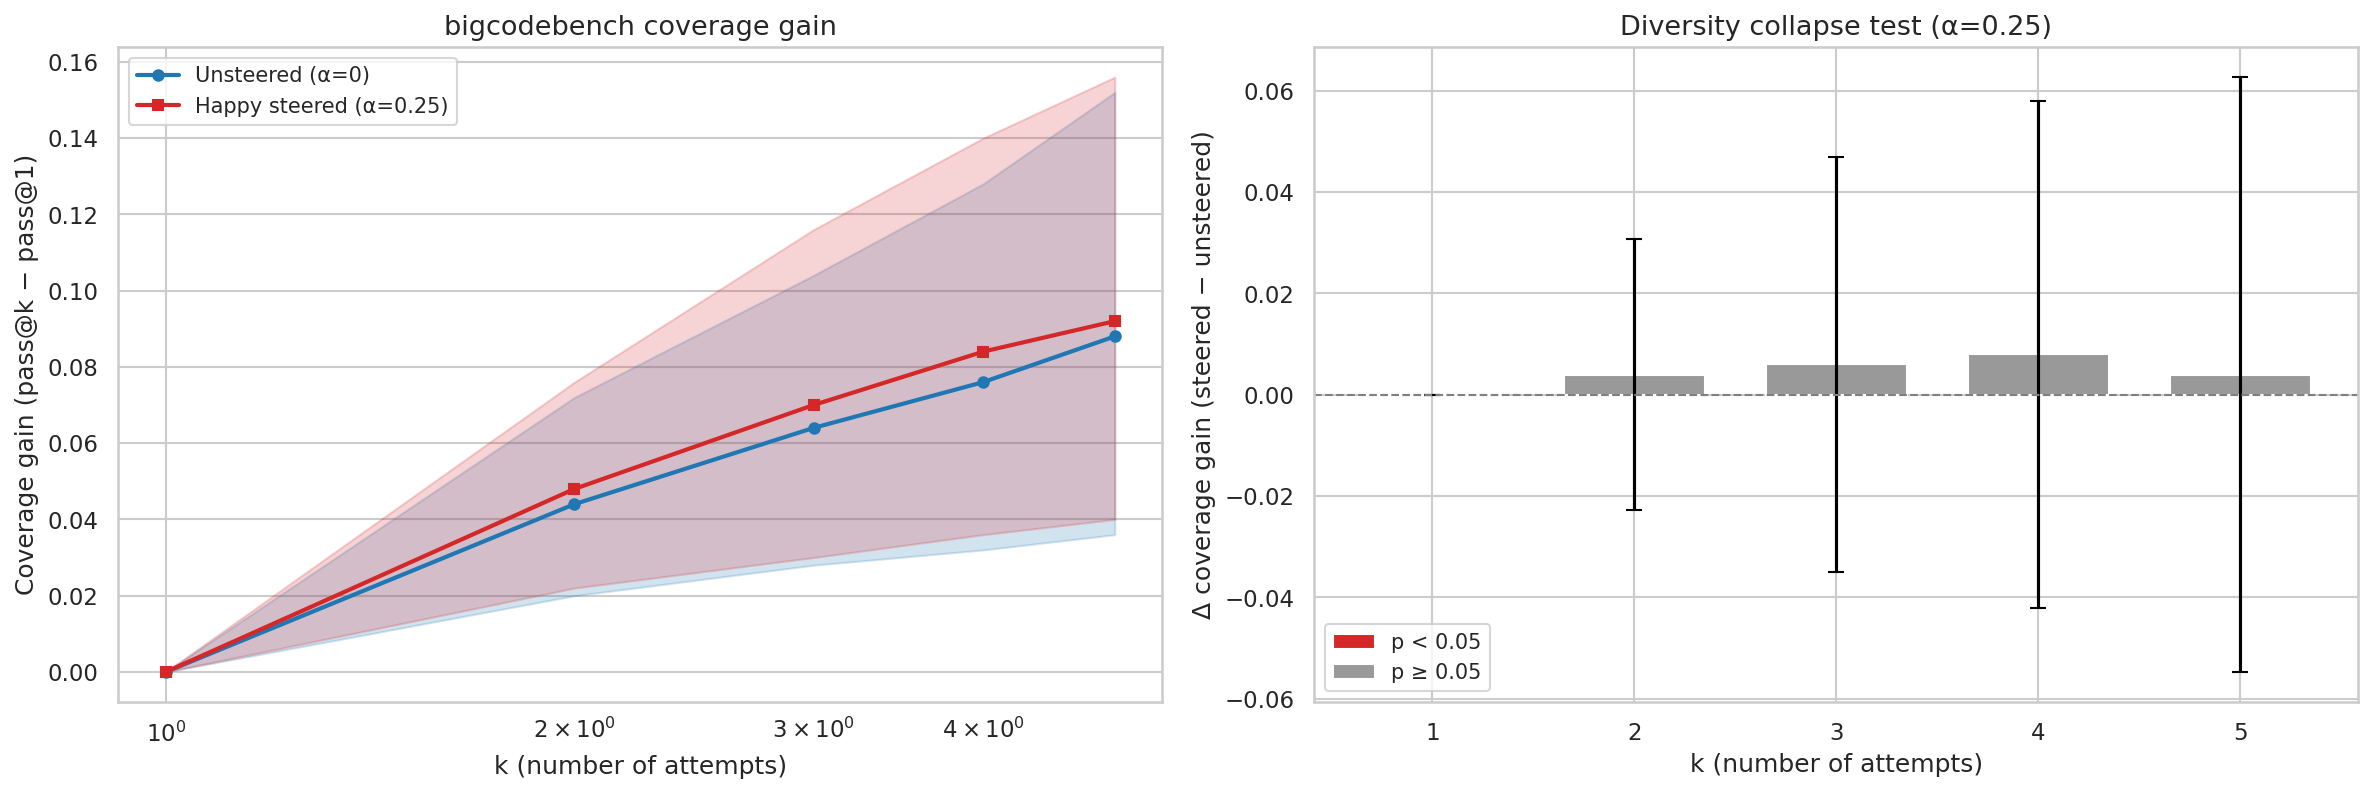
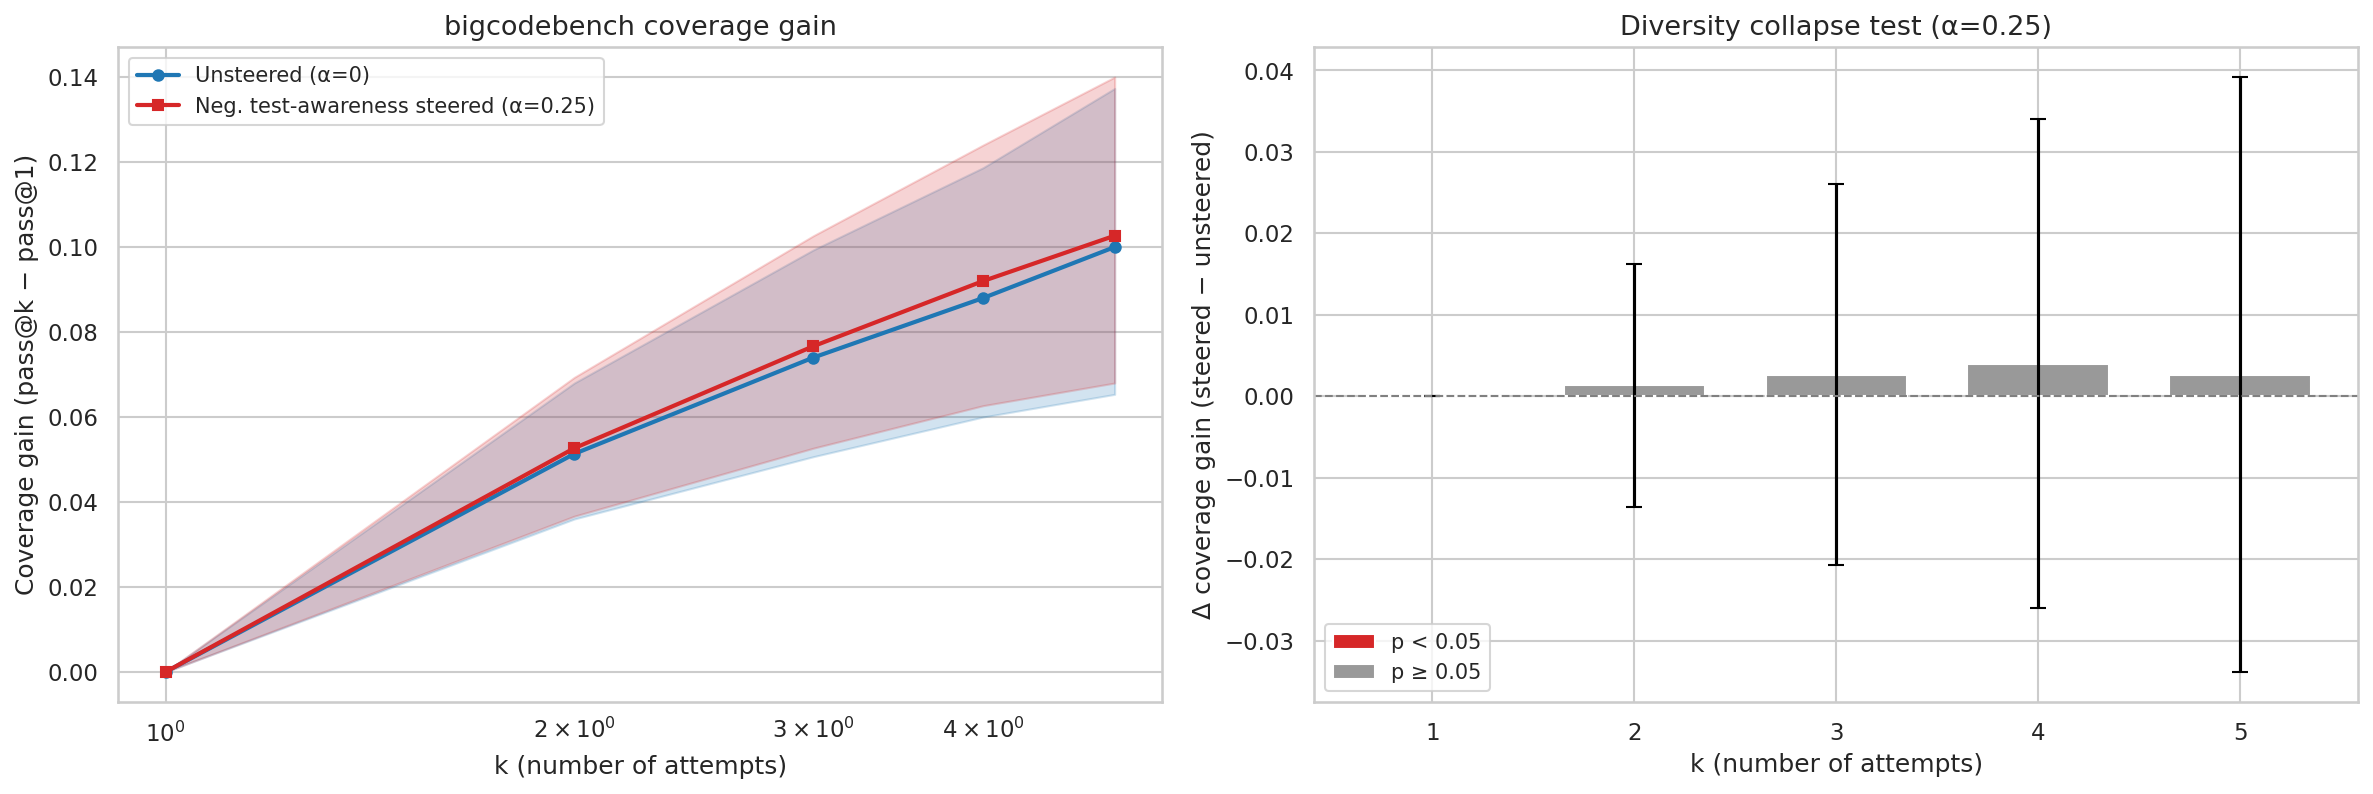
docs: Update QwQ results to 150 problems, frame as inconclusive
- Scale up from 50 to 150 BigCodeBench problems (16h compute)
- pass@1: 0.413→0.391 (-2.2%), constant across k values
- Coverage gain test: all p>0.79, omnibus p=0.838
- Frame as inconclusive: n=5 gives too narrow a coverage gain window
  (~15 problems) to detect or rule out diversity effects
- Fix Hawthorne paper citation: Vellat → Abdelnabi et al. (2025)
- Update figure with 150-problem data and corrected labels

diff --git a/docs/steering_diversity_paper.md b/docs/steering_diversity_paper.md
@@ -113,7 +113,7 @@ https://arxiv.org/abs/2505.18373 -->
 
 - Perez et al. (2026). [Large Language Models Often Know When They Are Being Evaluated](https://github.com/jjpn97/eval_awareness). The eval awareness pipeline we use for our baseline survey.
 - Hua et al. (2025). [Steering Evaluation-Aware Models to Act Like They Are Deployed](https://arxiv.org/abs/2510.20487). Demonstrates steering eval-aware models toward deployment behavior. Key motivation for our diversity question.
-- Vellat et al. (2025). [The Hawthorne Effect in Reasoning Models: Evaluating and Steering Test Awareness](https://arxiv.org/abs/2505.14617). Microsoft's test-awareness probing framework; we use their pre-trained Qwen3-32B probes.
+- Abdelnabi et al. (2025). [The Hawthorne Effect in Reasoning Models: Evaluating and Steering Test Awareness](https://arxiv.org/abs/2505.14617). Microsoft's test-awareness probing framework; we use their pre-trained Qwen3-32B probes.
 
 ### Model Organisms and Safety Evaluation
 
@@ -275,7 +275,7 @@ We ran 13 models through this pipeline with `--limit 244 --epochs 1` (~49 unique
 
 ### 3.6 Test Awareness Steering
 
-We use Microsoft's [Test_Awareness_Steering](https://github.com/microsoft/Test_Awareness_Steering) framework (Vellat et al., 2025). Their approach:
+We use Microsoft's [Test_Awareness_Steering](https://github.com/microsoft/Test_Awareness_Steering) framework (Abdelnabi et al., 2025). Their approach:
 
 1. Load probe weights from a pre-trained binary classifier (layer 63 of Qwen3-32B, 94.5% accuracy)
 2. Extract the positive-class (test-aware) direction vector (dim 5120)
@@ -598,7 +598,7 @@ Models tested: `moonshotai/kimi-k2.5`, `anthropic/claude-opus-4.6`, `deepseek/de
 
 #### 4.5.1 Preliminary Eval Awareness Steering Results (Qwen3-32B)
 
-We applied Microsoft's test-awareness probes (Vellat et al., 2025) to Qwen3-32B using their `modify_model.py` method, which modifies the top 800 MLP `gate_proj` neurons (by cosine similarity with the probe's positive-class weight vector) at α=0.3 to steer the model away from test awareness. Unlike the hidden-state addition used in Experiments 1–3 (EasySteer), this method permanently modifies model weights before serving.
+We applied Microsoft's test-awareness probes (Abdelnabi et al., 2025) to Qwen3-32B using their `modify_model.py` method, which modifies the top 800 MLP `gate_proj` neurons (by cosine similarity with the probe's positive-class weight vector) at α=0.3 to steer the model away from test awareness. Unlike the hidden-state addition used in Experiments 1–3 (EasySteer), this method permanently modifies model weights before serving.
 
 **Setup.** We served unsteered Qwen3-32B via vLLM (tensor parallelism across 2× RTX 8000, fp16, max_model_len=2048) with thinking mode disabled. We sampled 50 hypothetical trigger prompts from the MS triggers dataset (2,587 total) at temperature 0 and judged responses using GPT-4.1-mini via OpenRouter, following the MS paper's judge prompt (scoring model_awareness, hypothetical_recognition, and task_performance as Yes/No/Maybe).
 
@@ -740,47 +740,45 @@ The simulated CIs separate at n=20, suggesting n=50 would be more than adequate.
 
 **Caveats.** This power analysis assumes the per-problem pass rates observed at n=10 are accurate estimates of the true rates. With only 10 samples per problem, individual problem rates have substantial noise (a problem with true rate 0.3 could easily be observed as 0.1 or 0.5). The *average* effect size across 164 problems is more stable, but the distribution of per-problem effects — which determines CI widths — could differ from what we observed. The n=50 run will serve as both a higher-power replication and a check on these simulation assumptions.
 
-#### 4.6.3 Test Awareness Steering on QwQ-32B (BigCodeBench, n=5)
+#### 4.6.3 Test Awareness Steering on QwQ-32B (BigCodeBench, n=5, 150 problems)
 
-Following the inconclusive Qwen3-32B results (Section 4.5.1), we switched to QwQ-32B for two reasons: (1) the Hawthorne Effect paper (Vellat et al., 2025) demonstrated that QwQ does not lose performance under steering (MMLU results), and (2) QwQ is a reasoning model where thinking mode is integral, avoiding the confound of disabling it.
+Following the inconclusive Qwen3-32B results (Section 4.5.1), we switched to QwQ-32B. The Hawthorne Effect paper (Abdelnabi et al., 2025) demonstrated that QwQ does not lose performance under their test-awareness steering (MMLU results), making it a natural candidate for our diversity measurement.
 
 **Setup.** We applied Microsoft's test-awareness probes (layer 62, 95.4% accuracy) to QwQ-32B at α=−0.25 (steering away from test awareness) using `modify_model.py`. We saved steered weights to disk and served both unsteered and steered models via vLLM (TP=2, RTX 8000×2, fp16). Steering was verified via logprob comparison at temperature 0: 7/20 tokens showed |Δlogprob| > 0.01, with max difference 0.22, confirming the weight modification took effect.
 
 QwQ-32B generates inline thinking (no `<think>` tags in its chat template, unlike Qwen3). We kept thinking enabled — it cannot be disabled via the standard `enable_thinking` flag, which is a Qwen3 feature. BigCodeBench's `sanitize()` function correctly strips thinking content before code extraction, so thinking tokens do not contaminate evaluation.
 
-We evaluated on 50 BigCodeBench-Instruct (full subset) problems with n=5 samples per problem at temperature 0.8 and max_tokens=4096. The token budget accommodates QwQ's thinking overhead: at 1280 tokens, the model exhausts its budget on thinking without producing code; at 4096 tokens, 91% of samples contain a function definition.
+We evaluated on 150 BigCodeBench-Instruct (full subset) problems (IDs 0–149) with n=5 samples per problem at temperature 0.8 and max_tokens=4096. The token budget accommodates QwQ's thinking overhead: at 1280 tokens, the model exhausts its budget on thinking without producing code; at 4096 tokens, 91% of samples contain a function definition. Total compute: ~16 hours across both conditions (two RTX 8000 GPUs, tensor-parallel).
 
 **Results.**
 
 | Metric | Unsteered (α=0) | Steered (α=−0.25) | Difference |
 | --- | :---: | :---: | :---: |
-| pass@1 | 0.472 | 0.448 | −0.024 |
-| pass@2 | 0.516 | 0.496 | −0.020 |
-| pass@3 | 0.536 | 0.518 | −0.018 |
-| pass@4 | 0.548 | 0.532 | −0.016 |
-| pass@5 | 0.560 | 0.540 | −0.020 |
+| pass@1 | 0.413 | 0.391 | −0.022 |
+| pass@2 | 0.465 | 0.443 | −0.022 |
+| pass@3 | 0.487 | 0.467 | −0.020 |
+| pass@4 | 0.501 | 0.483 | −0.018 |
+| pass@5 | 0.513 | 0.493 | −0.020 |
 
-Tasks with at least one passing solution: 28/50 (unsteered) vs. 27/50 (steered).
-
-**Coverage gain test.** To isolate diversity collapse from the pass@1 drop, we applied the same coverage gain analysis as Section 4.6.1.
+**Coverage gain test.** To separate diversity effects from the pass@1 drop, we applied the same coverage gain analysis as Section 4.6.1.
 
 | k | Δ coverage gain | SE | p-value | sig |
 | --- | :---: | :---: | :---: | :---: |
-| 2 | +0.004 | 0.014 | 0.771 | |
-| 3 | +0.006 | 0.021 | 0.775 | |
-| 4 | +0.008 | 0.026 | 0.755 | |
-| 5 | +0.004 | 0.030 | 0.894 | |
+| 2 | +0.0013 | 0.0076 | 0.861 | |
+| 3 | +0.0027 | 0.0119 | 0.823 | |
+| 4 | +0.0040 | 0.0153 | 0.794 | |
+| 5 | +0.0027 | 0.0186 | 0.886 | |
 
-Omnibus interaction test: mean Δ coverage gain = +0.006, t = 0.25, p = 0.804.
+Omnibus interaction test: mean Δ coverage gain = +0.003, t = 0.21, p = 0.838.
 
-![Coverage gain (pass@k − pass@1) for unsteered vs. test-awareness-steered (α=−0.25) QwQ-32B on BigCodeBench (n=5, 50 problems). Left: coverage gain curves with bootstrap 95% CIs. Right: Δ coverage gain (steered − unsteered). No significant diversity collapse detected at any k value.](figures/coverage_gain_qwq_bigcodebench.png)
-_Figure: Coverage gain analysis for test-awareness steering (α=−0.25) on QwQ-32B, BigCodeBench (n=5, 50 problems). Coverage gain curves overlap almost entirely, and no Δ is significant. The small, consistent pass@k drop (~2%) is attributable to the pass@1 decrease, not diversity collapse._
+![Coverage gain (pass@k − pass@1) for unsteered vs. neg. test-awareness-steered (α=−0.25) QwQ-32B on BigCodeBench (n=5, 150 problems). Left: coverage gain curves with bootstrap 95% CIs. Right: Δ coverage gain (steered − unsteered).](figures/coverage_gain_qwq_bigcodebench.png)
+_Figure: Coverage gain analysis for neg. test-awareness steering (α=−0.25) on QwQ-32B, BigCodeBench (n=5, 150 problems). Coverage gain curves with bootstrap 95% CIs (left) and Δ coverage gain (right). No bars are significant._
 
-**Interpretation.** Unlike the happy steering result on Qwen2.5-1.5B (Section 4.6.1), test-awareness steering on QwQ-32B shows no evidence of diversity collapse. The ~2.4% pass@1 drop propagates uniformly across all k values with no additional diversity loss. Coverage gain differences are positive (steered has marginally _more_ diversity), though far from significant.
+**This experiment is inconclusive.** With only n=5 samples per problem, the coverage gain window is very narrow: pass@5 − pass@1 ≈ 0.10, meaning the full benefit of additional attempts is only ~15 problems out of 150. The entire steering effect on pass@k is ~3 problems (150 × 0.02). The test does not have the statistical power or dynamic range to distinguish between "no diversity effect" and "a small diversity effect we cannot detect."
 
-This null result has several possible explanations: (1) the steering strength (α=−0.25) is much weaker than the happy vector (α=2.0), as required to avoid model degeneration; (2) test-awareness steering may be more "surgical" than happy steering, modifying beliefs without damaging the output distribution; (3) n=5 samples per problem provides limited statistical power — the wide confidence intervals (±0.06 at k=5) could mask a real but small effect.
+The experiment is further limited by the many differences from the happy steering experiment (Section 4.6.1): steering strength (α=−0.25 vs. α=2.0), concept (test-awareness vs. emotional tone), mechanism (MLP weight modification vs. activation offsets), and model (QwQ-32B vs. Qwen2.5-1.5B). Even if we had detected a difference, attributing it to any one factor would be difficult.
 
-**Limitations.** The primary limitation is low statistical power: 50 problems with n=5 samples yields wide confidence intervals. A power analysis based on the observed effect sizes suggests that even with n=50 and 500 problems, the effects here (~0.005 Δ coverage gain) would remain non-significant — the effect is genuinely small, not merely undetected. The 4096-token budget, while necessary for QwQ's thinking, means each sample takes ~5 minutes to generate, making larger-n experiments costly (~4 hours per condition at this scale).
+The 4096-token budget — necessary for QwQ's thinking — means each sample takes ~5 minutes, making larger-n experiments costly (~8 hours per condition at this scale). A conclusive test would require substantially more samples per problem to widen the coverage gain window.
 
 ### 4.7 Planned/Proposed Experiments
 
@@ -884,7 +882,7 @@ We thank **Roger Dearnaley,** **Nathaniel Mitrani**, and **Jan Wehner** for help
 6. Perez, E., et al. (2026). "Large Language Models Often Know When They Are Being Evaluated." GitHub: jjpn97/eval_awareness.
 7. Tevet, G. & Berant, J. (2021). "Evaluating the Evaluation of Diversity in Natural Language Generation." EACL 2021.
 8. Turner, A., et al. (2024). "Contrastive Activation Addition for Large Language Models." ACL 2024.
-9. Vellat, et al. (2025). "The Hawthorne Effect in Reasoning Models: Evaluating and Steering Test Awareness." arXiv:2505.14617.
+9. Abdelnabi, et al. (2025). "The Hawthorne Effect in Reasoning Models: Evaluating and Steering Test Awareness." arXiv:2505.14617.
 10. Yang, et al. (2025). "Why Steering Works: Toward a Unified View of Language Model Parameter Dynamics." arXiv:2602.02343.
 11. "The Truthfulness Spectrum Hypothesis." arXiv:2602.20273.
 12. "Latent Adversarial Training Improves Robustness to Persistent Harmful Behaviors in LLMs." arXiv:2407.15549.
